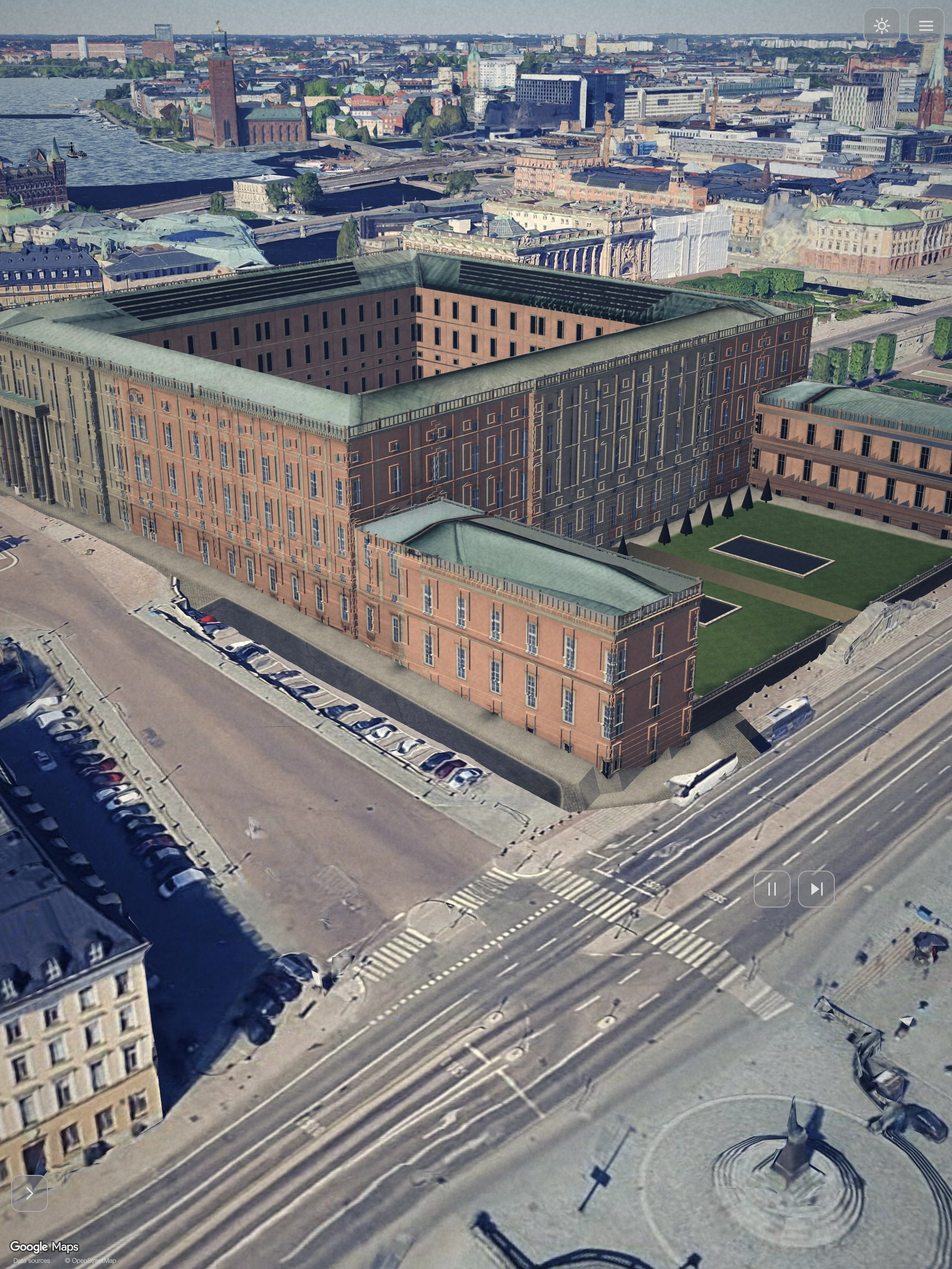
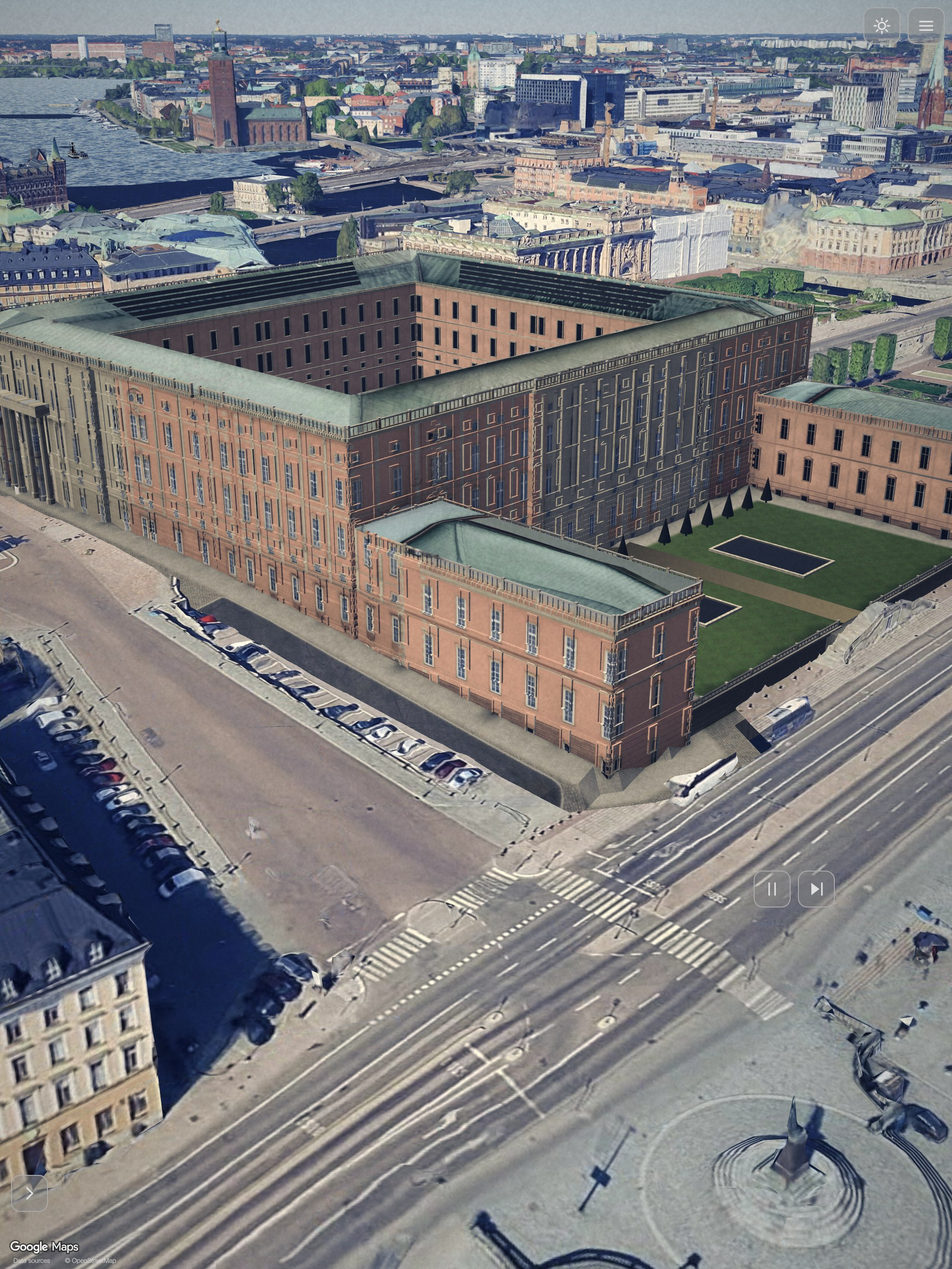
Linssiseppä 2: KL v6j korjauskierros (risaliitin kulma, sahalaita, valkoiset läikät, vaakaviivat) ja omistajan arkki valokuva | v6h | v6j

diff --git a/docs/raportit/linssiseppa2-kl-tekoalypinnat-v6i-20261009.md b/docs/raportit/linssiseppa2-kl-tekoalypinnat-v6i-20261009.md
@@ -50,3 +50,16 @@ Auki (itse tarkistettu pelikuvista): kaakkoissiiven sahalaitakolmiot räystään
 jakautuvat projektion ja varapinnan kesken), portiikin juurella muutama valkoinen läikkä (maanrajan pinnat näytteistävät tekoälykuvan
 valkoista taustaa), ohuet vaaleat vaakaviivat listojen kohdalla, itäjulkisivun tekoälykuva haaleampi (ikkunat ääriviivamaisia),
 Logårdenin nurmi tasainen ilman kuviota.
+
+## v6j, PT:n korjauskierros (9.10. 23.5x)
+Arkki omistajan korttia varten: `kaappaukset/linssiseppa2-kl6i-20261009/omistajalle-kl-valokuva-v6h-v6j.jpg`.
+1. **Beige/lohenpunainen-raja:** luokkamaski oikein (kivikoriste = keskirisaliitti 45 m, 9 akselia; sivut seinäluokkaa). Risaliitti
+   on 30 m kehyksen keskeltä länteen (siivet), joten lähikuvan kamera keskitettiin siihen (59.32628, 18.07181).
+2. **Kaakkoissiiven sahalaita:** Logårdenin siipien vastakkaiset julkisivut eivät näy yhdestäkään ortonäkymästä; kolmiot jakautuivat
+   projektion ja v3c:n kesken. Projisoi-kopioon tasoittainen enemmistö (normaali 0,05, etäisyys 0,3 m): taso joko kokonaan v3c:lle
+   tai kokonaan enemmistönäkymästä. Samalla sisäpihan puoleiset kattolappeet v3c:n kuparille.
+3. **Valkoiset läikät:** tekoälyn valkoinen maavyö täytetty alimmasta 2 m:stä sarakkeen värillä (savyta.py); kattonäkymä ei kelpaa maan
+   lähellä (< 2,5 m) oleville vaakapinnoille. Portiikin edessä terassilla näkyy vielä kaksi vaaleaa kappaletta, joita mallin
+   Blender-renderissä ei ole (todennäköisesti Googlen esineitä leikkauksen ulkopuolella).
+4. **Vaakaviivat:** kattonäkymä vain kattomaskin pinnoille ja toinen kierros vain julkisivunäkymistä (listojen ja ikkunalautojen
+   yläpinnat saivat kattokuvan vaalean taustan); viivat vaimenivat. Logårdenin nurmi ennallaan (tasainen).
